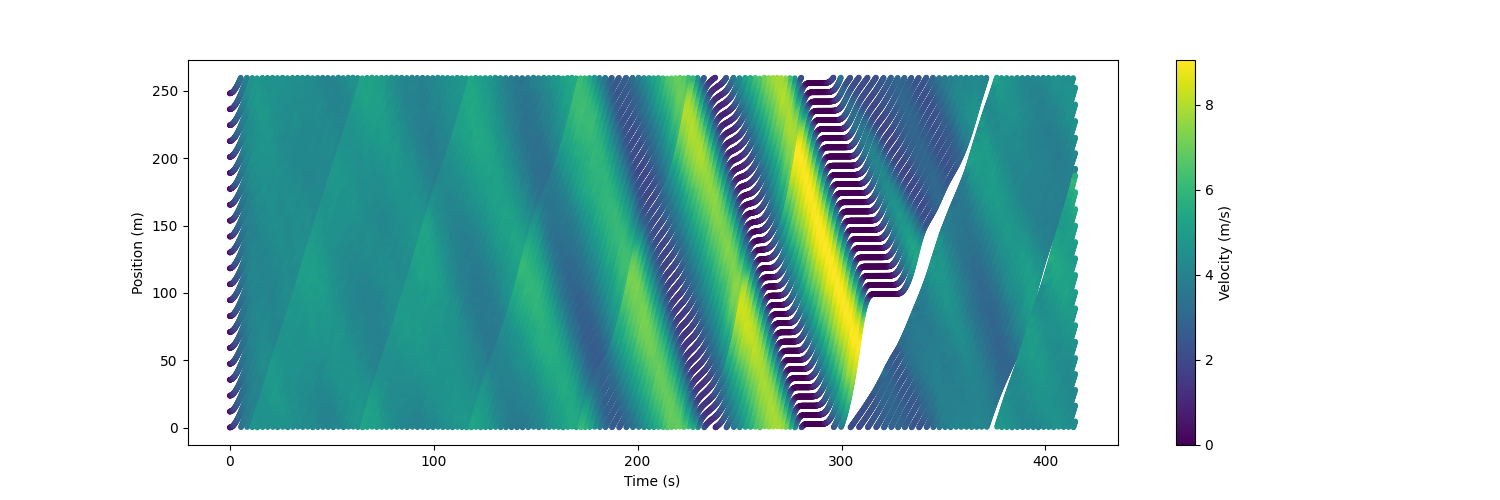
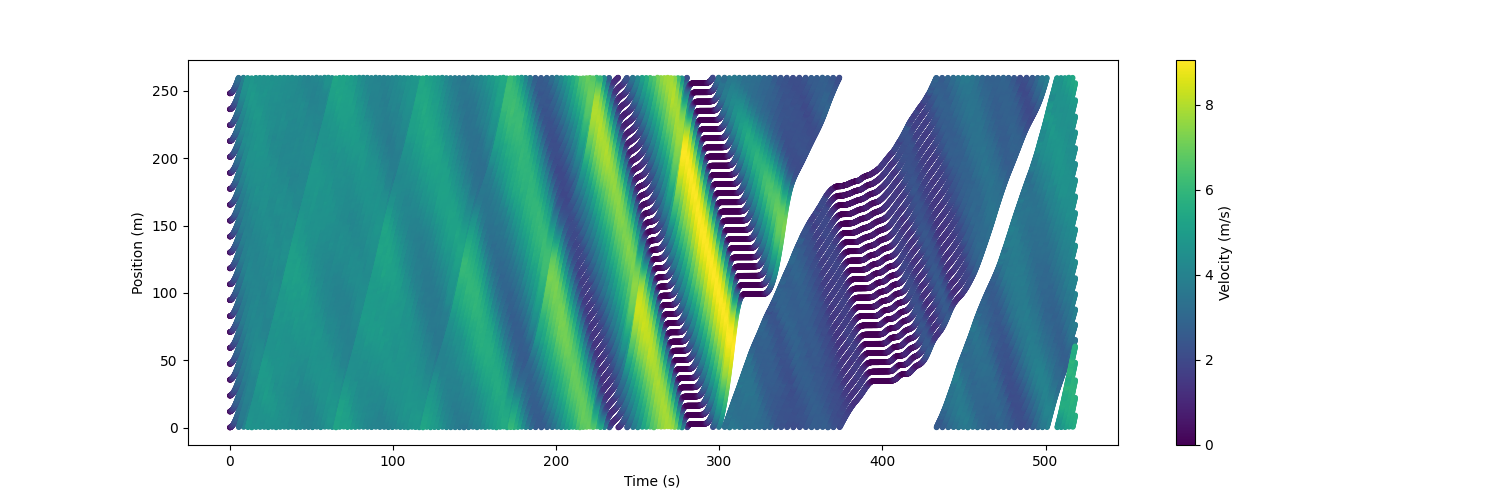
reward change

diff --git a/Ring_Road/vehicle/state.py b/Ring_Road/vehicle/state.py
@@ -8,7 +8,7 @@ from Ring_Road.constants import RADIUS, CAR_LENGTH, RADIUS, AGENT_MAX_VELOCITY, 
 class StateExtractor:
     def __init__(self, env):
         self.env = env
-        self.delay = 0
+        self.delay = 0.5
 
     def gap_front(self, veh):
         if veh.front_vehicle.central_angle - veh.central_angle < 0:
@@ -61,11 +61,11 @@ class StateExtractor:
                 # next time step (assuming the vehicle ahead of it is not
                 # moving), then stop immediately
                 # if self.display_warnings:
-                #     print(
-                #         "=====================================\n"
-                #         "Vehicle {} is about to crash. Instantaneous acceleration "
-                #         "clipping applied.\n"
-                #         "=====================================".format(self.veh_id))
+                print(
+                    "=====================================\n"
+                    "Vehicle {} is about to crash. Instantaneous acceleration "
+                    "clipping applied.\n"
+                    "=====================================".format("Agent"))
 
                 return -this_vel / DELTA_T
             else:

diff --git a/main.py b/main.py
@@ -17,7 +17,7 @@ def main():
         scripts.train_dqn.evaluate("/home/vamsi/Documents/GitHub/RingRoad-RL/Models/DQN/DQNTrainer_2022-03-03_19-28-07/DQNTrainer_ringroad-v1_f4621_00000_0_2022-03-03_19-28-08/checkpoint_000488/checkpoint-488")
 
     elif args.type == "eval_ppo":
-        scripts.train_ppo.evaluate("/home/vamsi/Documents/GitHub/RingRoad-RL/Models/PPO/SingleAgent/PPOTrainer_2022-07-06_15-48-21/PPOTrainer_ringroad-v1_f65f9_00000_0_2022-07-06_15-48-21/checkpoint_000250/checkpoint-250")
+        scripts.train_ppo.evaluate("/home/vamsi/Documents/GitHub/RingRoad-RL/Models/PPO/SingleAgent/PPOTrainer_2022-07-12_10-35-06/PPOTrainer_ringroad-v1_31d3d_00000_0_2022-07-12_10-35-06/checkpoint_000250/checkpoint-250")
 
     elif args.type == "eval_idm":
         scripts.evaluate_idm.evaluate()

diff --git a/Ring_Road/envs/ringroad.py b/Ring_Road/envs/ringroad.py
@@ -122,9 +122,9 @@ class RingRoad(gym.Env):
 
         # reward average velocity
         eta_2 = 4.
-        reward = 4 * self.state_extractor.get_average_vel() / 5
+        reward = self.state_extractor.get_average_vel() / 5
         # punish accelerations (should lead to reduced stop-and-go waves)
-        eta = 2  # 0.25
+        eta = 4  # 0.25
         mean_actions = eta * np.mean(np.abs(action))
         accel_threshold = 0
 

diff --git a/scripts/train_ppo.py b/scripts/train_ppo.py
@@ -29,7 +29,7 @@ config["num_gpus"] = 1
 config["num_workers"] = 8
 config["lr"] = 1e-6
 config["horizon"] = MAX_EPISODE_LENGTH
-config["model"]["fcnet_hiddens"] = [3, 3, 3]
+config["model"]["fcnet_hiddens"] = [32, 32, 32]
 # config["model"]["use_lstm"] = True
 # config["model"]["lstm_cell_size"] = 512
 # config["model"]["lstm_use_prev_action_reward"] = True

diff --git a/Ring_Road/vehicle/vehicle.py b/Ring_Road/vehicle/vehicle.py
@@ -184,7 +184,7 @@ class Agent(Car):
                 self.agent_type = "idm"
 
         accel_action = self._run_control(avg_vel)
-        accel_action = state_extractor.failsafe_action(accel_action)
+        # accel_action = state_extractor.failsafe_action(accel_action)
         self._update_vel(accel_action)
         self.update_positions()
 
